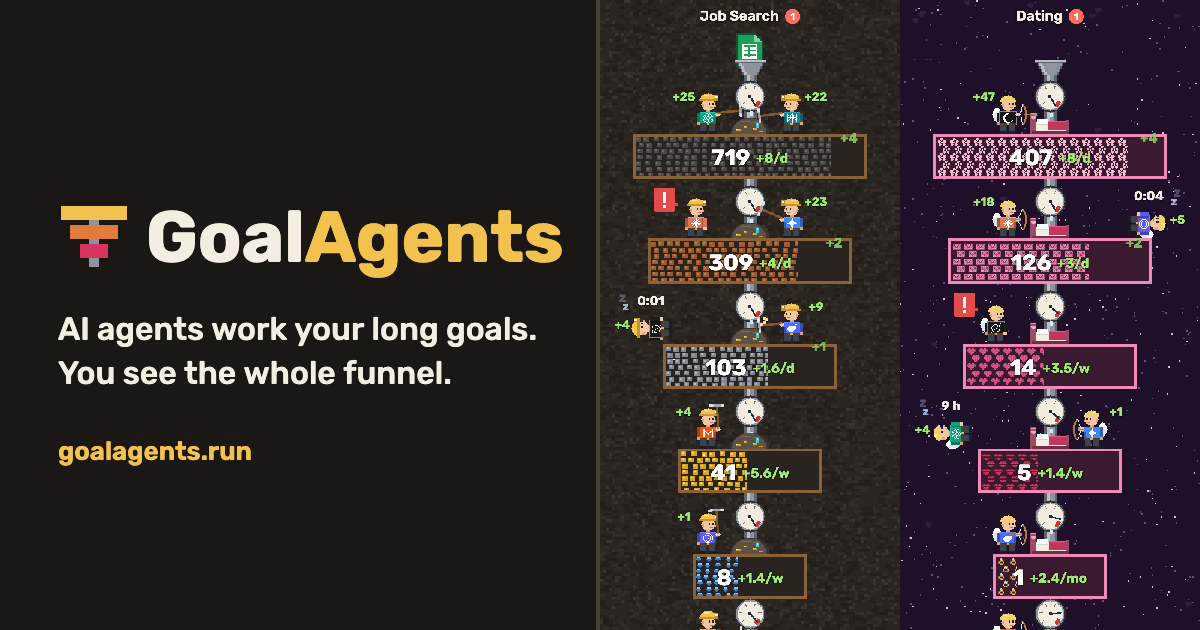
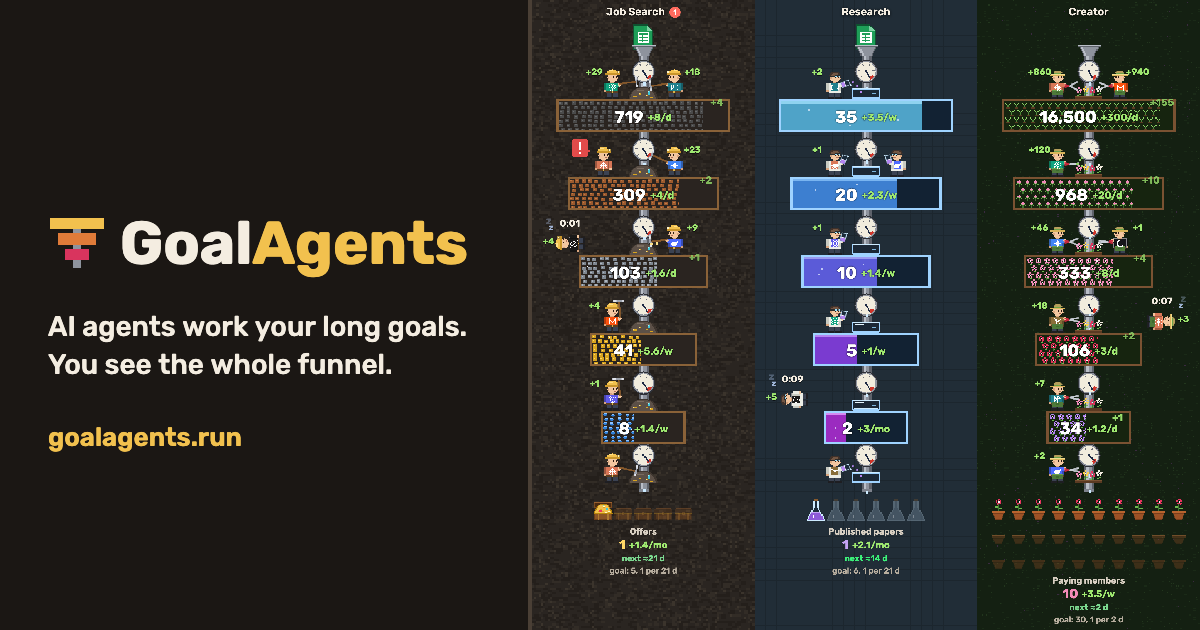
Pictures without the Dating funnel; preview card shows three whole funnels; deck callouts follow

diff --git a/tools/render-docs.js b/tools/render-docs.js
@@ -78,13 +78,14 @@ function themesSheet() {
   return c;
 }
 
-// The dashboard itself: the first four funnels after a short run of the demo, so tanks have
+// The dashboard itself: the first four funnels (without Dating) after a short run of the demo, so tanks have
 // moved and agents are mid-action.
 // The first columns of the demo as the dashboard shows them: titles on their column's backdrop
 // (with the red badge of agents waiting), then the scene after 12 seconds of simulated time.
 function overview() {
   const scale = 2, dpr = 2, cols = 4, K = scale * dpr, TH = 22;
-  const scene = new Scene(document.createElement('canvas'), FUNNELS);
+  // The Dating funnel stays in the live demo but out of the pictures.
+  const scene = new Scene(document.createElement('canvas'), FUNNELS.filter(f => f.theme !== 'love'));
   scene.resize(scale, dpr);
   for (let i = 0; i < 12 * 30; i++) scene.update(1 / 30);
   scene.render();
@@ -109,26 +110,28 @@ function overview() {
   return c;
 }
 
-// The link preview card (Open Graph, 1200×630): name and tagline on the left, the top of the
+// The link preview card (Open Graph, 1200×630): name and tagline on the left, three funnels of the
 // board on the right.
 async function ogCard(board) {
   const [c, g] = canvas(1200, 630);
   g.fillStyle = '#1B1714'; g.fillRect(0, 0, 1200, 630);
-  g.drawImage(board, 0, 0, 1600, 1680, 600, 0, 600, 630);
-  g.fillStyle = '#4A3F35'; g.fillRect(596, 0, 4, 630);
+  // Three whole funnels, top to bottom, on the right.
+  const sw = board.width * 3 / 4, sh = board.height, dh = 630, dw = Math.round(sw * dh / sh);
+  g.drawImage(board, 0, 0, sw, sh, 1200 - dw, 0, dw, dh);
+  g.fillStyle = '#4A3F35'; g.fillRect(1200 - dw - 4, 0, 4, 630);
   const logo = new Image();
   await new Promise(r => { logo.onload = r; logo.src = '/favicon.svg'; });
   g.imageSmoothingEnabled = false;
-  g.drawImage(logo, 56, 196, 76, 76);
+  g.drawImage(logo, 46, 210, 62, 62);
   g.textBaseline = 'alphabetic'; g.textAlign = 'left';
-  g.font = `700 72px ${FONT}`;
-  g.fillStyle = '#F4EDE1'; g.fillText('Goal', 146, 262);
-  g.fillStyle = '#F2C14E'; g.fillText('Agents', 146 + g.measureText('Goal').width, 262);
-  g.font = `500 32px ${FONT}`; g.fillStyle = '#F4EDE1';
-  g.fillText('AI agents work your long goals.', 58, 340);
-  g.fillText('You see the whole funnel.', 58, 384);
+  g.font = `700 60px ${FONT}`;
+  g.fillStyle = '#F4EDE1'; g.fillText('Goal', 120, 264);
+  g.fillStyle = '#F2C14E'; g.fillText('Agents', 120 + g.measureText('Goal').width, 264);
+  g.font = `500 28px ${FONT}`; g.fillStyle = '#F4EDE1';
+  g.fillText('AI agents work your long goals.', 48, 336);
+  g.fillText('You see the whole funnel.', 48, 374);
   g.font = `600 26px ${FONT}`; g.fillStyle = '#F2C14E';
-  g.fillText('goalagents.run', 58, 460);
+  g.fillText('goalagents.run', 48, 446);
   return c;
 }
 

diff --git a/deck/index.html b/deck/index.html
@@ -94,8 +94,8 @@
           <div class="callout" data-side="left" data-x="0.054" data-y="0.235"><b>Red badge</b>an agent is waiting for your answer</div>
           <div class="callout" data-side="left" data-x="0.098" data-y="0.886"><b>next</b>when the next result is due</div>
           <div class="callout" data-side="right" data-x="0.89" data-y="0.36"><b>Gauge</b>on pace for the goal? The red mark is just in time</div>
-          <div class="callout" data-side="right" data-x="0.952" data-y="0.113"><b>+N</b>what the agent's last run added</div>
-          <div class="callout" data-side="right" data-x="0.96" data-y="0.802"><b>Results</b>one per result; empty ones are still to come</div>
+          <div class="callout" data-side="right" data-x="0.828" data-y="0.113"><b>+N</b>what the agent's last run added</div>
+          <div class="callout" data-side="right" data-x="0.8" data-y="0.806"><b>Results</b>one per result; empty ones are still to come</div>
         </div>
       </div>
     </section>
